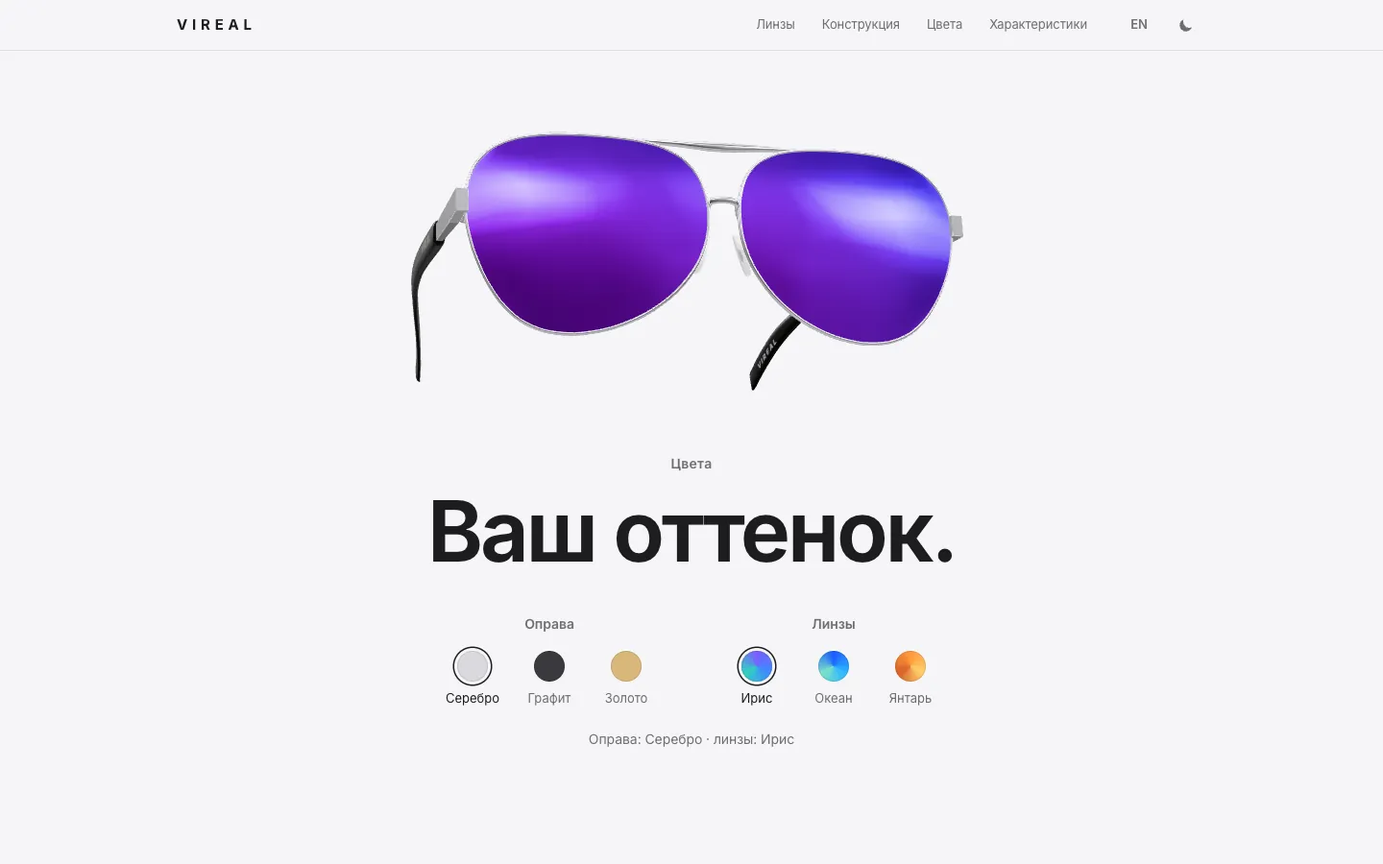
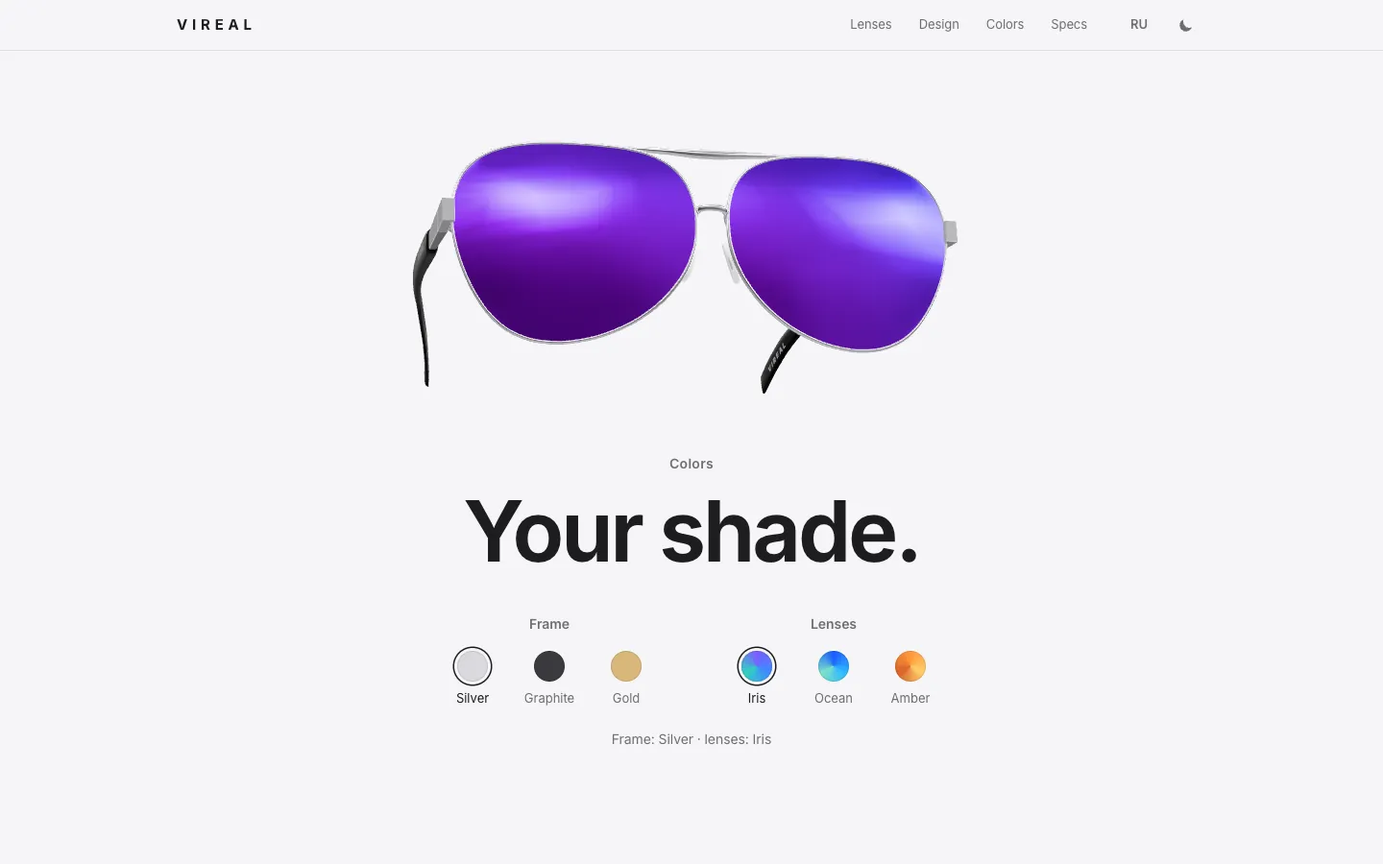
vireal: английские снимки в EN-кейсе, русские — в RU-кейсе

diff --git a/ru/work/vireal/index.html b/ru/work/vireal/index.html
@@ -261,10 +261,10 @@ h1{letter-spacing:-.04em}
 <p class="lede">Страница запуска вымышленных солнцезащитных очков, рассказ идёт главами при прокрутке. 3D-модель поворачивается, разбирается на детали и собирается обратно, а цвет оправы и линз меняется прямо на модели, когда вы его выбираете. Русский и английский языки, светлая и тёмная темы.</p>
 <p class="note"><b>Концепт-демо · бренд Vireal вымышлен.</b> Очки Vireal Aero и их характеристики придуманы, заказчика у этой страницы нет. Цифры ниже — замеры самого демо: его можно открыть и попробовать.</p>
 <div class="cta"><a class="btn solid" href="/demo/vireal/?lang=ru">Открыть живое демо<svg aria-hidden="true" class="i" viewbox="0 0 24 24"><path d="M5 12h14M13 6l6 6-6 6"></path></svg></a></div>
-<div class="shot"><div class="frame"><div class="bar"><i></i><i></i><i></i></div><picture><source height="1688" media="(max-width: 640px)" srcset="/img/work/vireal-1m.webp" width="780"><img alt="Снимок: первый экран Vireal Aero с 3D-очками" height="900" loading="eager" src="/img/work/vireal-1.webp" width="1440"/></source></picture></div></div>
+<div class="shot"><div class="frame"><div class="bar"><i></i><i></i><i></i></div><picture><source height="1688" media="(max-width: 640px)" srcset="/img/work/vireal-ru-1m.webp" width="780"><img alt="Снимок: первый экран Vireal Aero с 3D-очками" height="900" loading="eager" src="/img/work/vireal-ru-1.webp" width="1440"/></source></picture></div></div>
 <div class="kfacts" style="--n:4"><div class="reveal" style="--d:0"><b>98</b><span>баллов Lighthouse за скорость в мобильном профиле</span></div><div class="reveal" style="--d:1"><b>90</b><span>та же проверка, когда грузится 3D-сцена</span></div><div class="reveal" style="--d:2"><b>100</b><span>баллов Lighthouse за скорость на компьютере</span></div><div class="reveal" style="--d:3"><b>~57</b><span>кадров в секунду при прокрутке, запись на Mac</span></div></div>
 </div></header>
-<section class="article wrap" style="padding-bottom:24px"><div class="kicker">Кейс</div><div><p>Apple продаёт технику на страницах, где продукт стоит в центре экрана, а рассказ с каждой прокруткой переходит к новой главе. Vireal Aero — такая страница для солнцезащитных очков, которых не существует. Её сделали, чтобы показать, что нужно для такого сайта и что он всё равно может быстро открываться на телефоне.</p><p>На странице пять глав. На первом экране крупный заголовок и очки, которые поворачиваются к вам; на компьютере они слегка наклоняются вслед за курсором. В главе «Линзы» по одной появляются три короткие строки, а оттенок зеркальных линз меняется при прокрутке. В главе «Дизайн» оправа разбирается: линзы, ободок, шарниры и дужки расходятся, на мгновение замирают рядом с тремя характеристиками и собираются обратно.</p><figure class="fig reveal"><div class="frame"><div class="bar"><i></i><i></i><i></i></div><img alt="Глава «Дизайн» в тёмной теме: при прокрутке детали расходятся, а потом собираются обратно." decoding="async" height="900" loading="lazy" src="/img/work/vireal-2.webp" width="1440"/></div><figcaption>Глава «Дизайн» в тёмной теме: при прокрутке детали расходятся, а потом собираются обратно.</figcaption></figure><p>В главе «Цвета» вы выбираете оправу (серебро, графит или золото) и покрытие линз (ирис, океан или янтарь), и модель сразу меняет материал. Последняя глава — сетка характеристик: цифры один раз отсчитываются вверх, когда появляются на экране.</p><figure class="fig reveal"><div class="frame"><div class="bar"><i></i><i></i><i></i></div><img alt="Цвет оправы и линз меняется на 3D-модели сразу по клику." decoding="async" height="900" loading="lazy" src="/img/work/vireal-3.webp" width="1440"/></div><figcaption>Цвет оправы и линз меняется на 3D-модели сразу по клику.</figcaption></figure><p>Если у устройства нет видеокарты или WebGL (технология 3D в браузере) не запускается, страница всё равно работает: на том же месте показывается картинка очков, а 3D-библиотека не скачивается вовсе. При включённом «Уменьшении движения» ничего не закрепляется и не двигается с прокруткой: модель стоит под одним удачным углом, а текст появляется без сдвига. Тема и язык выбираются до первой отрисовки, поэтому страница не мигает.</p><figure class="fig reveal"><div class="frame"><div class="bar"><i></i><i></i><i></i></div><img alt="Размер телефона, светлая и тёмная темы. На снимках русская версия; одно нажатие переключает демо на английский." decoding="async" height="1000" loading="lazy" src="/img/work/vireal-4.webp" width="1600"/></div><figcaption>Размер телефона, светлая и тёмная темы. На снимках русская версия; одно нажатие переключает демо на английский.</figcaption></figure><p>Как сделано: сцену рисует three.js, GSAP ScrollTrigger привязывает каждую главу к прокрутке, а Lenis сглаживает колёсико мыши на компьютере; на телефонах прокрутка остаётся родной. Модель — образец Sunglasses Khronos от Khronos Group (Eric Chadwick, Darmstadt Graphics Group), лицензия CC BY 4.0. Логотипы на дужках заменены знаком Vireal, материалы изменены; ссылка на авторов есть в подвале демо.</p><p>Сцена рисует новый кадр, только когда что-то движется (прокрутка, анимация или курсор), а в скрытой вкладке не рисует ничего. Если кадры начинают отрисовываться слишком долго, картинка сама становится чуть менее чёткой. В дизайне один шрифт, Inter, и один фиолетовый акцент, взятый с линзы. Всё демо — 22 файла и 1,5 МБ вместе с библиотеками и моделью.</p><p>Замеры от 1 октября 2026 года. Lighthouse в мобильном профиле: скорость 98, главный блок появляется за 2,3 с. У проверяющей машины нет видеокарты, поэтому она, как и PageSpeed Insights, получает картинку вместо 3D. Когда грузится 3D-сцена, оценка 90. На компьютере: 100. На записи экрана с полной прокруткой Chrome на Mac (Apple M1) показал около 57 кадров в секунду в размерах компьютера и телефона. Размер телефона имитировался на Mac, на настоящем телефоне замера не было.</p><p>В настоящем проекте: 3D-модель вашего продукта (из CAD-чертежа или готового 3D-файла), ваши тексты и фирменный стиль и те главы, которые нужны вашему продукту. Ежемесячная поддержка от 250 USD: обновление текстов и цен, новые разделы, проверка в новых браузерах и на новых телефонах, контроль скорости и небольшие улучшения.</p></div></section>
+<section class="article wrap" style="padding-bottom:24px"><div class="kicker">Кейс</div><div><p>Apple продаёт технику на страницах, где продукт стоит в центре экрана, а рассказ с каждой прокруткой переходит к новой главе. Vireal Aero — такая страница для солнцезащитных очков, которых не существует. Её сделали, чтобы показать, что нужно для такого сайта и что он всё равно может быстро открываться на телефоне.</p><p>На странице пять глав. На первом экране крупный заголовок и очки, которые поворачиваются к вам; на компьютере они слегка наклоняются вслед за курсором. В главе «Линзы» по одной появляются три короткие строки, а оттенок зеркальных линз меняется при прокрутке. В главе «Дизайн» оправа разбирается: линзы, ободок, шарниры и дужки расходятся, на мгновение замирают рядом с тремя характеристиками и собираются обратно.</p><figure class="fig reveal"><div class="frame"><div class="bar"><i></i><i></i><i></i></div><img alt="Глава «Дизайн» в тёмной теме: при прокрутке детали расходятся, а потом собираются обратно." decoding="async" height="900" loading="lazy" src="/img/work/vireal-ru-2.webp" width="1440"/></div><figcaption>Глава «Дизайн» в тёмной теме: при прокрутке детали расходятся, а потом собираются обратно.</figcaption></figure><p>В главе «Цвета» вы выбираете оправу (серебро, графит или золото) и покрытие линз (ирис, океан или янтарь), и модель сразу меняет материал. Последняя глава — сетка характеристик: цифры один раз отсчитываются вверх, когда появляются на экране.</p><figure class="fig reveal"><div class="frame"><div class="bar"><i></i><i></i><i></i></div><img alt="Цвет оправы и линз меняется на 3D-модели сразу по клику." decoding="async" height="900" loading="lazy" src="/img/work/vireal-ru-3.webp" width="1440"/></div><figcaption>Цвет оправы и линз меняется на 3D-модели сразу по клику.</figcaption></figure><p>Если у устройства нет видеокарты или WebGL (технология 3D в браузере) не запускается, страница всё равно работает: на том же месте показывается картинка очков, а 3D-библиотека не скачивается вовсе. При включённом «Уменьшении движения» ничего не закрепляется и не двигается с прокруткой: модель стоит под одним удачным углом, а текст появляется без сдвига. Тема и язык выбираются до первой отрисовки, поэтому страница не мигает.</p><figure class="fig reveal"><div class="frame"><div class="bar"><i></i><i></i><i></i></div><img alt="Размер телефона, светлая и тёмная темы. Одно нажатие переключает демо между русским и английским." decoding="async" height="1000" loading="lazy" src="/img/work/vireal-ru-4.webp" width="1600"/></div><figcaption>Размер телефона, светлая и тёмная темы. Одно нажатие переключает демо между русским и английским.</figcaption></figure><p>Как сделано: сцену рисует three.js, GSAP ScrollTrigger привязывает каждую главу к прокрутке, а Lenis сглаживает колёсико мыши на компьютере; на телефонах прокрутка остаётся родной. Модель — образец Sunglasses Khronos от Khronos Group (Eric Chadwick, Darmstadt Graphics Group), лицензия CC BY 4.0. Логотипы на дужках заменены знаком Vireal, материалы изменены; ссылка на авторов есть в подвале демо.</p><p>Сцена рисует новый кадр, только когда что-то движется (прокрутка, анимация или курсор), а в скрытой вкладке не рисует ничего. Если кадры начинают отрисовываться слишком долго, картинка сама становится чуть менее чёткой. В дизайне один шрифт, Inter, и один фиолетовый акцент, взятый с линзы. Всё демо — 22 файла и 1,5 МБ вместе с библиотеками и моделью.</p><p>Замеры от 1 октября 2026 года. Lighthouse в мобильном профиле: скорость 98, главный блок появляется за 2,3 с. У проверяющей машины нет видеокарты, поэтому она, как и PageSpeed Insights, получает картинку вместо 3D. Когда грузится 3D-сцена, оценка 90. На компьютере: 100. На записи экрана с полной прокруткой Chrome на Mac (Apple M1) показал около 57 кадров в секунду в размерах компьютера и телефона. Размер телефона имитировался на Mac, на настоящем телефоне замера не было.</p><p>В настоящем проекте: 3D-модель вашего продукта (из CAD-чертежа или готового 3D-файла), ваши тексты и фирменный стиль и те главы, которые нужны вашему продукту. Ежемесячная поддержка от 250 USD: обновление текстов и цен, новые разделы, проверка в новых браузерах и на новых телефонах, контроль скорости и небольшие улучшения.</p></div></section>
 <section id="contact"><div class="wrap">
 <div class="contact nextstep reveal">
 <div class="kicker">Следующий шаг</div>

diff --git a/work/vireal/index.html b/work/vireal/index.html
@@ -269,7 +269,7 @@ h1{letter-spacing:-.04em}
 <div class="shot"><div class="frame"><div class="bar"><i></i><i></i><i></i></div><picture><source height="1688" media="(max-width: 640px)" srcset="/img/work/vireal-1m.webp" width="780"><img alt="Screenshot: the Vireal Aero first screen with the 3D sunglasses" height="900" loading="eager" src="/img/work/vireal-1.webp" width="1440"/></source></picture></div></div>
 <div class="kfacts" style="--n:4"><div class="reveal" style="--d:0"><b>98</b><span>Lighthouse performance on the mobile profile</span></div><div class="reveal" style="--d:1"><b>90</b><span>the same test with the 3D scene loading</span></div><div class="reveal" style="--d:2"><b>100</b><span>Lighthouse performance on desktop</span></div><div class="reveal" style="--d:3"><b>~57</b><span>frames per second while scrolling, recorded on a Mac</span></div></div>
 </div></header>
-<section class="article wrap" style="padding-bottom:24px"><div class="kicker">The case</div><div><p>Apple sells hardware with pages where the product sits in the middle of the screen and the story moves on one chapter per scroll. Vireal Aero is that kind of page for a pair of sunglasses that does not exist. It was built to show what such a site takes, and that it can still load fast on a phone.</p><p>The page has five chapters. The first screen is a large headline, "See the light.", with the glasses turning towards you; on a computer they lean slightly after the cursor. In "Lenses" three short lines appear one at a time while the tint of the mirrored lenses shifts with the scroll. In "Design" the frame comes apart: lenses, rim, hinges and temples drift away from each other, hold for a moment over three specs, then go back together.</p><figure class="fig reveal"><div class="frame"><div class="bar"><i></i><i></i><i></i></div><img alt='The "Design" chapter in the dark theme: the parts separate as you scroll, then reassemble.' decoding="async" height="900" loading="lazy" src="/img/work/vireal-2.webp" width="1440"/></div><figcaption>The "Design" chapter in the dark theme: the parts separate as you scroll, then reassemble.</figcaption></figure><p>In "Colors" you pick a frame (silver, graphite or gold) and a lens coating (iris, ocean or amber), and the model changes its material on the spot. The last chapter is a grid of specs that count up once when they come into view.</p><figure class="fig reveal"><div class="frame"><div class="bar"><i></i><i></i><i></i></div><img alt="Frame and lens colours are applied to the 3D model as you click." decoding="async" height="900" loading="lazy" src="/img/work/vireal-3.webp" width="1440"/></div><figcaption>Frame and lens colours are applied to the 3D model as you click.</figcaption></figure><p>If the device has no graphics card, or WebGL fails to start, the page still works: it shows a still picture of the glasses in the same place and never downloads the 3D library. With "reduce motion" switched on, nothing is pinned and nothing moves with the scroll: the model stands at one good angle and the text appears without sliding. Theme and language are set before the first paint, so the page does not flash.</p><figure class="fig reveal"><div class="frame"><div class="bar"><i></i><i></i><i></i></div><img alt="Phone size, light and dark theme. These screenshots show the Russian version; one tap switches the demo to English." decoding="async" height="1000" loading="lazy" src="/img/work/vireal-4.webp" width="1600"/></div><figcaption>Phone size, light and dark theme. These screenshots show the Russian version; one tap switches the demo to English.</figcaption></figure><p>How it is built: three.js draws the scene, GSAP ScrollTrigger ties each chapter to the scroll position, and Lenis smooths the mouse wheel on a computer, while phones keep their own scrolling. The model is the Sunglasses Khronos sample by the Khronos Group (Eric Chadwick, Darmstadt Graphics Group), licensed CC BY 4.0. The logos on its temples were replaced with a Vireal mark and the materials were changed; the credit is in the demo's footer.</p><p>The scene draws a new frame only when something moves (the scroll, an animation or the cursor), and in a hidden tab it draws nothing. If frames start to take too long, the picture gets slightly less sharp by itself. The design uses one typeface, Inter, and one violet accent taken from the lens. The whole demo is 22 files and 1.5 MB, libraries and the model included.</p><p>Measured on 2026-10-01. Lighthouse on the mobile profile: performance 98, with the largest content shown at 2.3 s. That test machine has no graphics card, so, like PageSpeed Insights, it gets the still picture. With the 3D scene loading the score is 90. On desktop: 100. In screen recordings of the full scroll, Chrome on a Mac (Apple M1) gave about 57 frames per second at desktop and phone sizes. The phone size was emulated on the Mac, not measured on a real phone.</p><p>In a real project: a 3D model of your own product (from CAD or a 3D file you already have), your texts and brand, and the chapters your product needs. Monthly support from 250 USD: text and price updates, new sections, checks in new browsers and phones, speed monitoring and small improvements.</p></div></section>
+<section class="article wrap" style="padding-bottom:24px"><div class="kicker">The case</div><div><p>Apple sells hardware with pages where the product sits in the middle of the screen and the story moves on one chapter per scroll. Vireal Aero is that kind of page for a pair of sunglasses that does not exist. It was built to show what such a site takes, and that it can still load fast on a phone.</p><p>The page has five chapters. The first screen is a large headline, "See the light.", with the glasses turning towards you; on a computer they lean slightly after the cursor. In "Lenses" three short lines appear one at a time while the tint of the mirrored lenses shifts with the scroll. In "Design" the frame comes apart: lenses, rim, hinges and temples drift away from each other, hold for a moment over three specs, then go back together.</p><figure class="fig reveal"><div class="frame"><div class="bar"><i></i><i></i><i></i></div><img alt='The "Design" chapter in the dark theme: the parts separate as you scroll, then reassemble.' decoding="async" height="900" loading="lazy" src="/img/work/vireal-2.webp" width="1440"/></div><figcaption>The "Design" chapter in the dark theme: the parts separate as you scroll, then reassemble.</figcaption></figure><p>In "Colors" you pick a frame (silver, graphite or gold) and a lens coating (iris, ocean or amber), and the model changes its material on the spot. The last chapter is a grid of specs that count up once when they come into view.</p><figure class="fig reveal"><div class="frame"><div class="bar"><i></i><i></i><i></i></div><img alt="Frame and lens colours are applied to the 3D model as you click." decoding="async" height="900" loading="lazy" src="/img/work/vireal-3.webp" width="1440"/></div><figcaption>Frame and lens colours are applied to the 3D model as you click.</figcaption></figure><p>If the device has no graphics card, or WebGL fails to start, the page still works: it shows a still picture of the glasses in the same place and never downloads the 3D library. With "reduce motion" switched on, nothing is pinned and nothing moves with the scroll: the model stands at one good angle and the text appears without sliding. Theme and language are set before the first paint, so the page does not flash.</p><figure class="fig reveal"><div class="frame"><div class="bar"><i></i><i></i><i></i></div><img alt="Phone size, light and dark theme. One tap switches the demo between English and Russian." decoding="async" height="1000" loading="lazy" src="/img/work/vireal-4.webp" width="1600"/></div><figcaption>Phone size, light and dark theme. One tap switches the demo between English and Russian.</figcaption></figure><p>How it is built: three.js draws the scene, GSAP ScrollTrigger ties each chapter to the scroll position, and Lenis smooths the mouse wheel on a computer, while phones keep their own scrolling. The model is the Sunglasses Khronos sample by the Khronos Group (Eric Chadwick, Darmstadt Graphics Group), licensed CC BY 4.0. The logos on its temples were replaced with a Vireal mark and the materials were changed; the credit is in the demo's footer.</p><p>The scene draws a new frame only when something moves (the scroll, an animation or the cursor), and in a hidden tab it draws nothing. If frames start to take too long, the picture gets slightly less sharp by itself. The design uses one typeface, Inter, and one violet accent taken from the lens. The whole demo is 22 files and 1.5 MB, libraries and the model included.</p><p>Measured on 2026-10-01. Lighthouse on the mobile profile: performance 98, with the largest content shown at 2.3 s. That test machine has no graphics card, so, like PageSpeed Insights, it gets the still picture. With the 3D scene loading the score is 90. On desktop: 100. In screen recordings of the full scroll, Chrome on a Mac (Apple M1) gave about 57 frames per second at desktop and phone sizes. The phone size was emulated on the Mac, not measured on a real phone.</p><p>In a real project: a 3D model of your own product (from CAD or a 3D file you already have), your texts and brand, and the chapters your product needs. Monthly support from 250 USD: text and price updates, new sections, checks in new browsers and phones, speed monitoring and small improvements.</p></div></section>
 <section id="contact"><div class="wrap">
 <div class="contact nextstep reveal">
 <div class="kicker">Next step</div>
